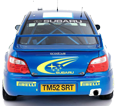
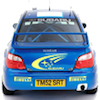
Resized Images - May want to see see if we want to just surround the image with a blank canvas in order to make the pixelation go away. Also added title and buttons for each of these images so that they can be selected.

diff --git a/src/roadrage/MainMenu.java b/src/roadrage/MainMenu.java
@@ -18,15 +18,14 @@ public class MainMenu extends JFrame implements ActionListener {
     private JRadioButton easyGameButton;
     private JRadioButton mediumGameButton;
     private JRadioButton hardGameButton;
-    private JLabel mopedImage; // better name? 
-    private JLabel carImage; // better name? 
-    private JLabel truckImage; // better name? 
+    private JRadioButton mopedRadioButton;
+    private JRadioButton carRadioButton;
+    private JRadioButton truckRadioButton;
     private JPanel mainMenuPanel;
     private JPanel sidebarMenuPanel;
     private ButtonGroup difficultyButtons;
-
-   
-    int boardSize = 10;
+    private ButtonGroup vehicleSelectionButtons;
+    private JLabel welcomeMessage;
     
     // FIXED: Someone fix this spacing -- I'm moving onto other things. This should be simple in just  layout change.
     public MainMenu() {
@@ -37,26 +36,29 @@ public class MainMenu extends JFrame implements ActionListener {
         this.setLayout(new BorderLayout());
         mainMenuPanel = new JPanel();
         sidebarMenuPanel = new JPanel();
+        welcomeMessage = new JLabel("Welcome to Road Rage!\n Please Select a Vehicle and Difficulty Below"); // TODO: Fix this to be a new line
        
         difficultyButtons = new ButtonGroup();
+        vehicleSelectionButtons = new ButtonGroup();
         startGameButton = new JButton("Start Game");
         easyGameButton = new JRadioButton("Easy");
         mediumGameButton = new JRadioButton("Medium");
         hardGameButton = new JRadioButton("Hard");
         
+        mopedRadioButton = new JRadioButton(new ImageIcon("Pictures/motorcycle.png"));
+        carRadioButton = new JRadioButton(new ImageIcon("Pictures/subaru.png"));
+        truckRadioButton = new JRadioButton(new ImageIcon("Pictures/truckIcon.png"));
+        
         difficultyButtons.add(easyGameButton);
         difficultyButtons.add(mediumGameButton);
         difficultyButtons.add(hardGameButton);
+        
+        vehicleSelectionButtons.add(mopedRadioButton);
+        vehicleSelectionButtons.add(carRadioButton);
+        vehicleSelectionButtons.add(truckRadioButton);
       
         //map on board, weapon images
-        mainMenuPanel.setLayout(new GridLayout(10,10));
-        
-        mopedImage = new JLabel(new ImageIcon("Pictures/motorcycle.png"));
-        mopedImage.setAlignmentX(Component.CENTER_ALIGNMENT);
-        carImage = new JLabel(new ImageIcon("Pictures/subaru.png"));
-        carImage.setAlignmentX(Component.CENTER_ALIGNMENT);
-        truckImage = new JLabel(new ImageIcon("Pictures/truckIcon.png"));
-        truckImage.setAlignmentX(Component.CENTER_ALIGNMENT);
+        mainMenuPanel.setLayout(new BorderLayout(200,0));
 
         //setting up sidebar
         sidebarMenuPanel.setLayout(new BoxLayout(sidebarMenuPanel, BoxLayout.PAGE_AXIS));
@@ -66,9 +68,11 @@ public class MainMenu extends JFrame implements ActionListener {
         sidebarMenuPanel.add(mediumGameButton);
         sidebarMenuPanel.add(hardGameButton);
         sidebarMenuPanel.add(startGameButton);
-        sidebarMenuPanel.add(mopedImage);
-        sidebarMenuPanel.add(carImage);
-        sidebarMenuPanel.add(truckImage);
+        
+        mainMenuPanel.add(welcomeMessage, BorderLayout.PAGE_START);
+        mainMenuPanel.add(mopedRadioButton, BorderLayout.WEST);
+        mainMenuPanel.add(carRadioButton, BorderLayout.CENTER);
+        mainMenuPanel.add(truckRadioButton, BorderLayout.LINE_END);
 
         this.add(mainMenuPanel, BorderLayout.CENTER);
         this.add(sidebarMenuPanel, BorderLayout.LINE_END);
@@ -79,6 +83,10 @@ public class MainMenu extends JFrame implements ActionListener {
 
     @Override
     public void actionPerformed(ActionEvent e) {
-        throw new UnsupportedOperationException("Not supported yet."); //To change body of generated methods, choose Tools | Templates.
+        Object obj = e.getSource();
+        if(obj == startGameButton){
+            // Launch the game with settings
+            
+        }
     }
 }

diff --git a/src/roadrage/RoadRage.java b/src/roadrage/RoadRage.java
@@ -16,6 +16,6 @@ public class RoadRage {
     public static void main(String[] args) {
         // TODO code application logic here
         // this is a comment
-        MainMenu mainy = new MainMenu();
+        MainMenu mainMenu = new MainMenu();
     }
 }
